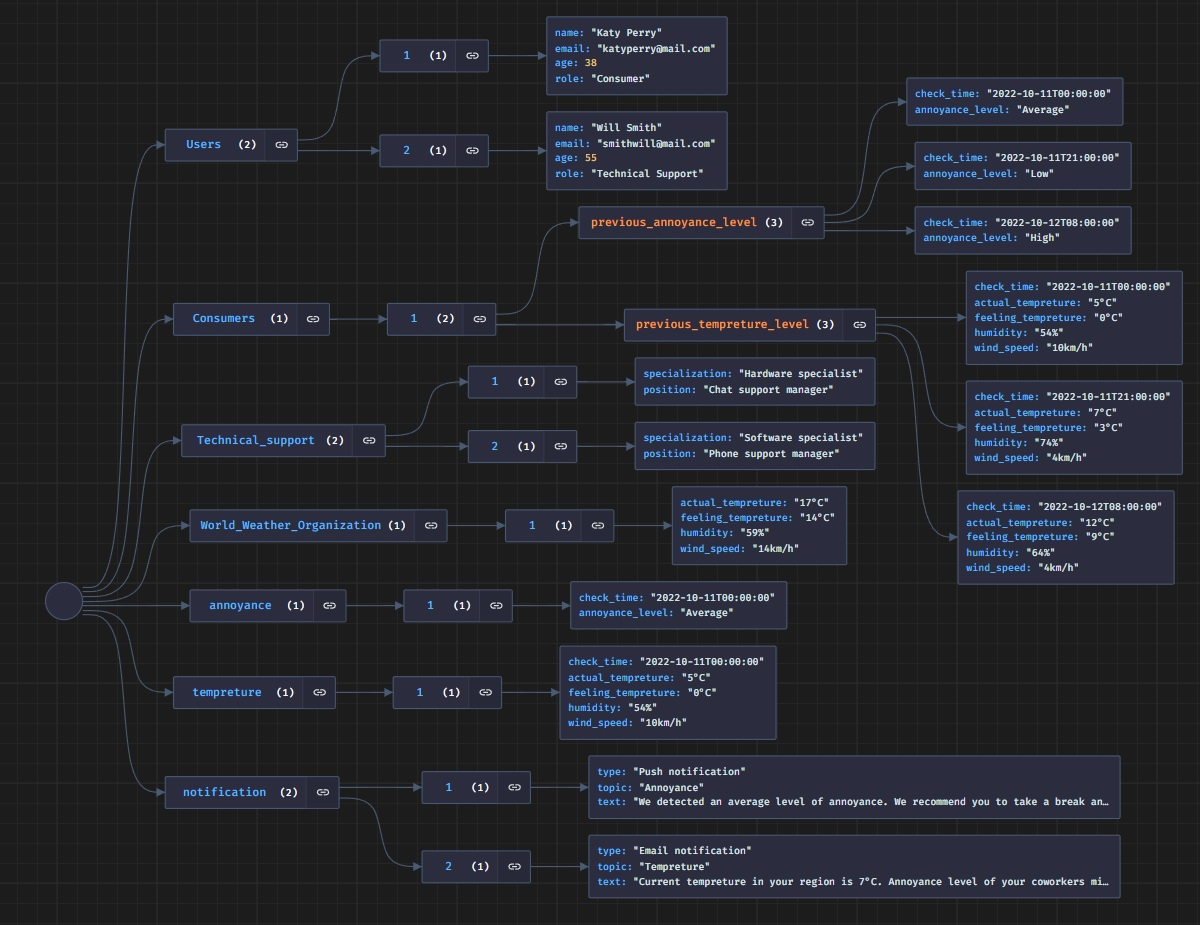
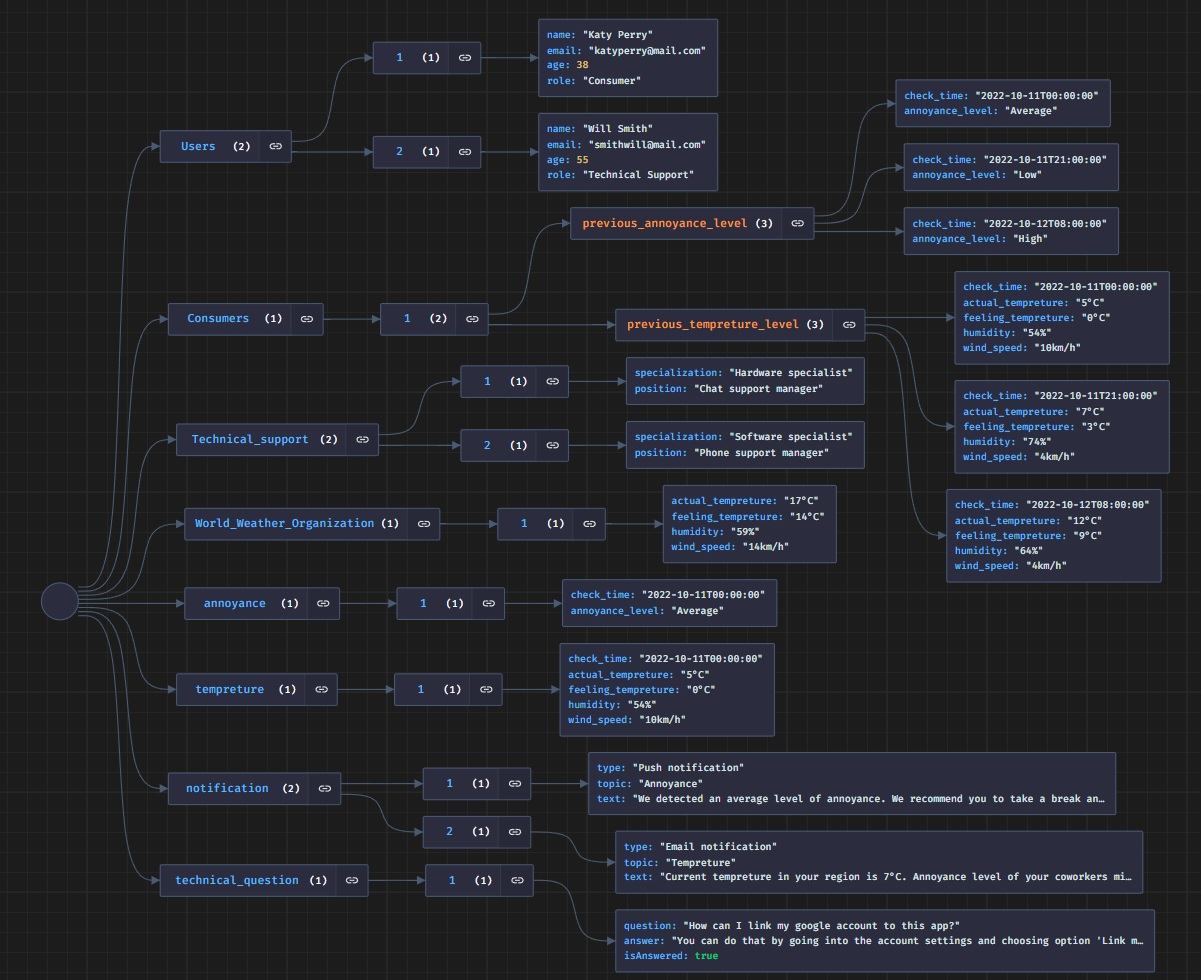
fixing issues

diff --git a/2-SoftwareDesign/2.2-AttributeVocabulary/README.md b/2-SoftwareDesign/2.2-AttributeVocabulary/README.md
@@ -22,3 +22,6 @@
 |        notification        |           type           |                            Тип повідомлення                             | текст  |     довжина < 30 символів     |
 |        notification        |          topic           |                            Мета повідомлення                            | текст  |     довжина < 30 символів     |
 |        notification        |           text           |                           Текст повідомлення                            | текст  |    довжина < 200 символів     |
+|     technical question     |         question         |                        Запитання від користуваа                         | текст  |    довжина < 300 символів     |
+|     technical question     |          answer          |                    Відповідь від технічного фахівця                     | текст  |    довжина < 300 символів     |
+|     technical question     |        isAnswered        |         Індикатор про те що запитання повинно бути опрацьоване          | текст  |                               |
